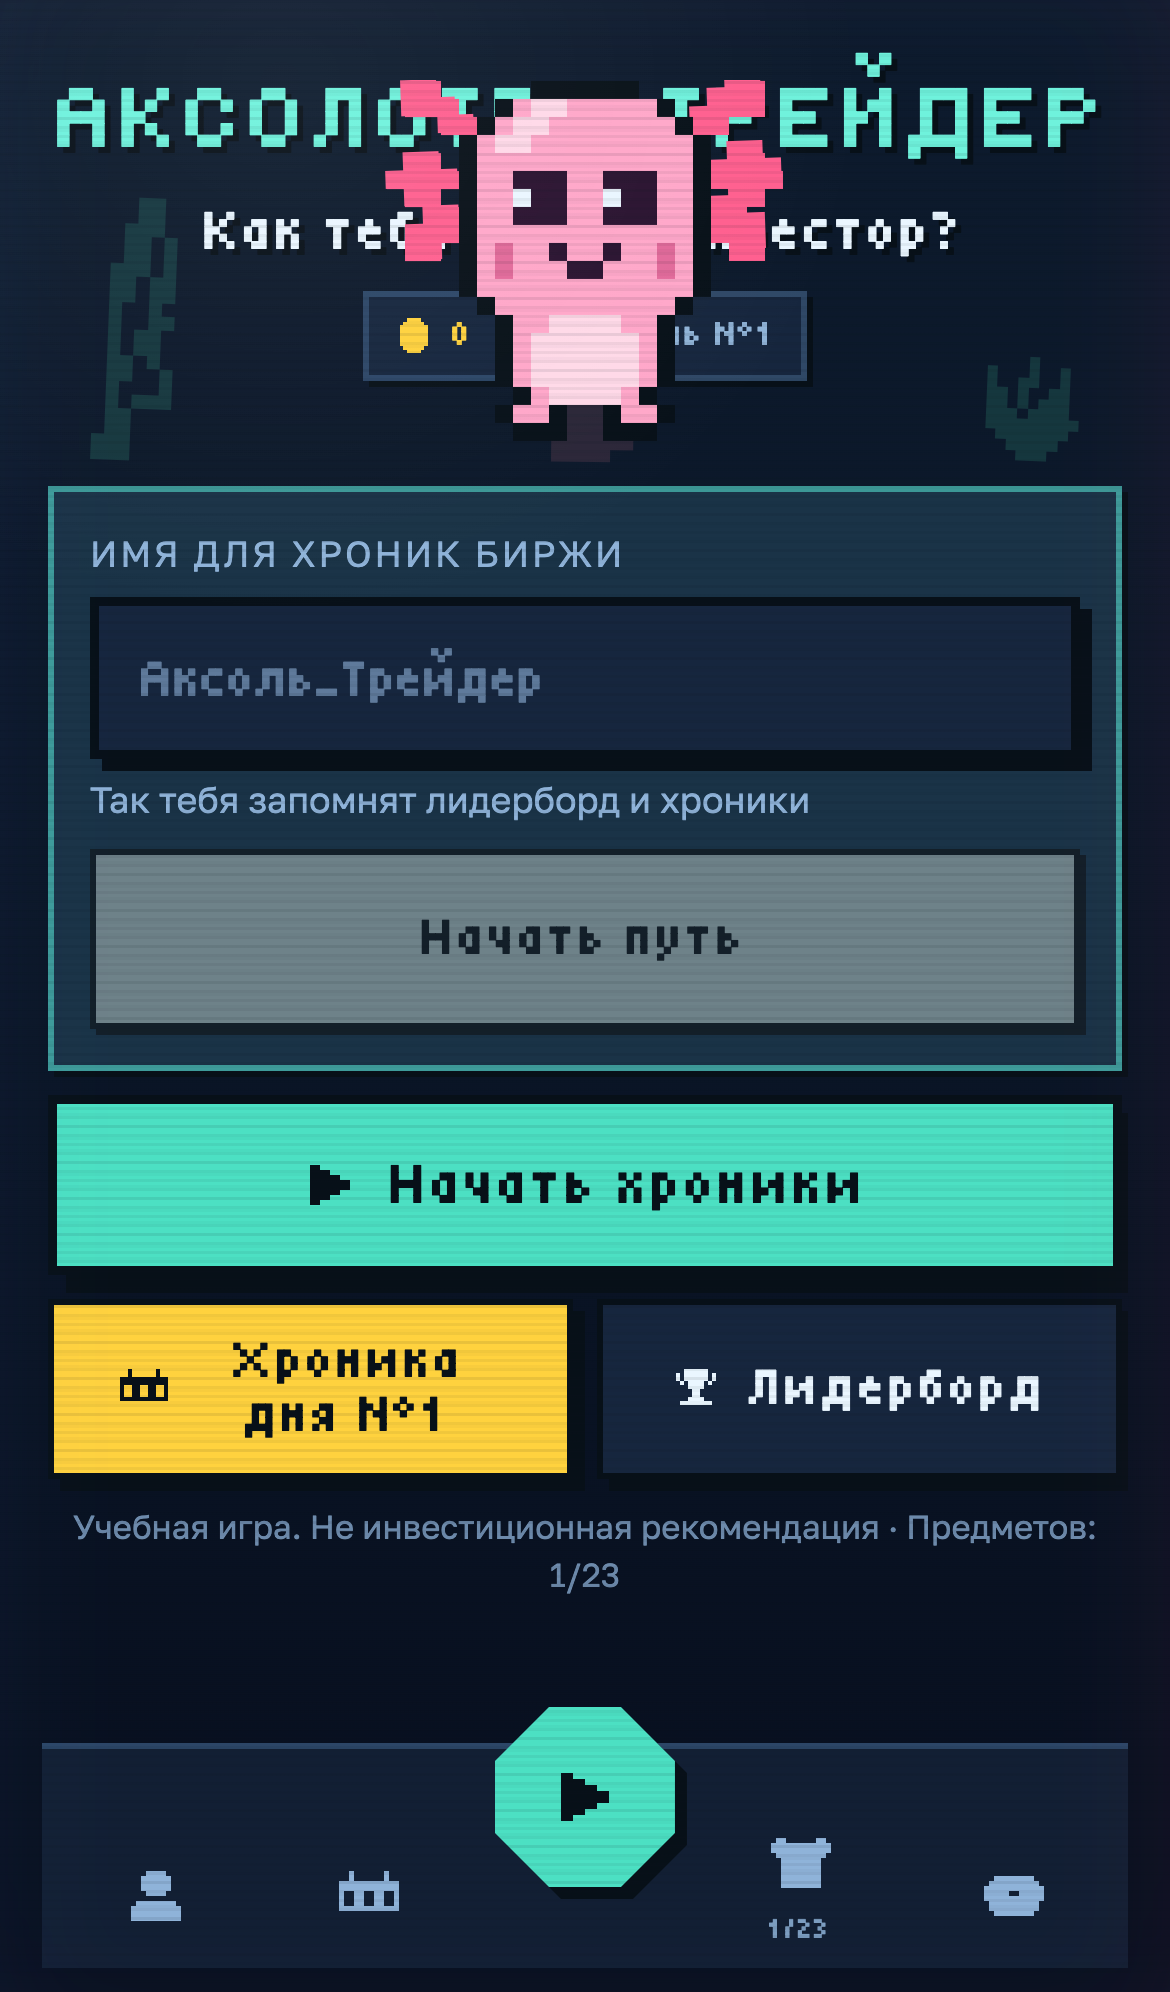
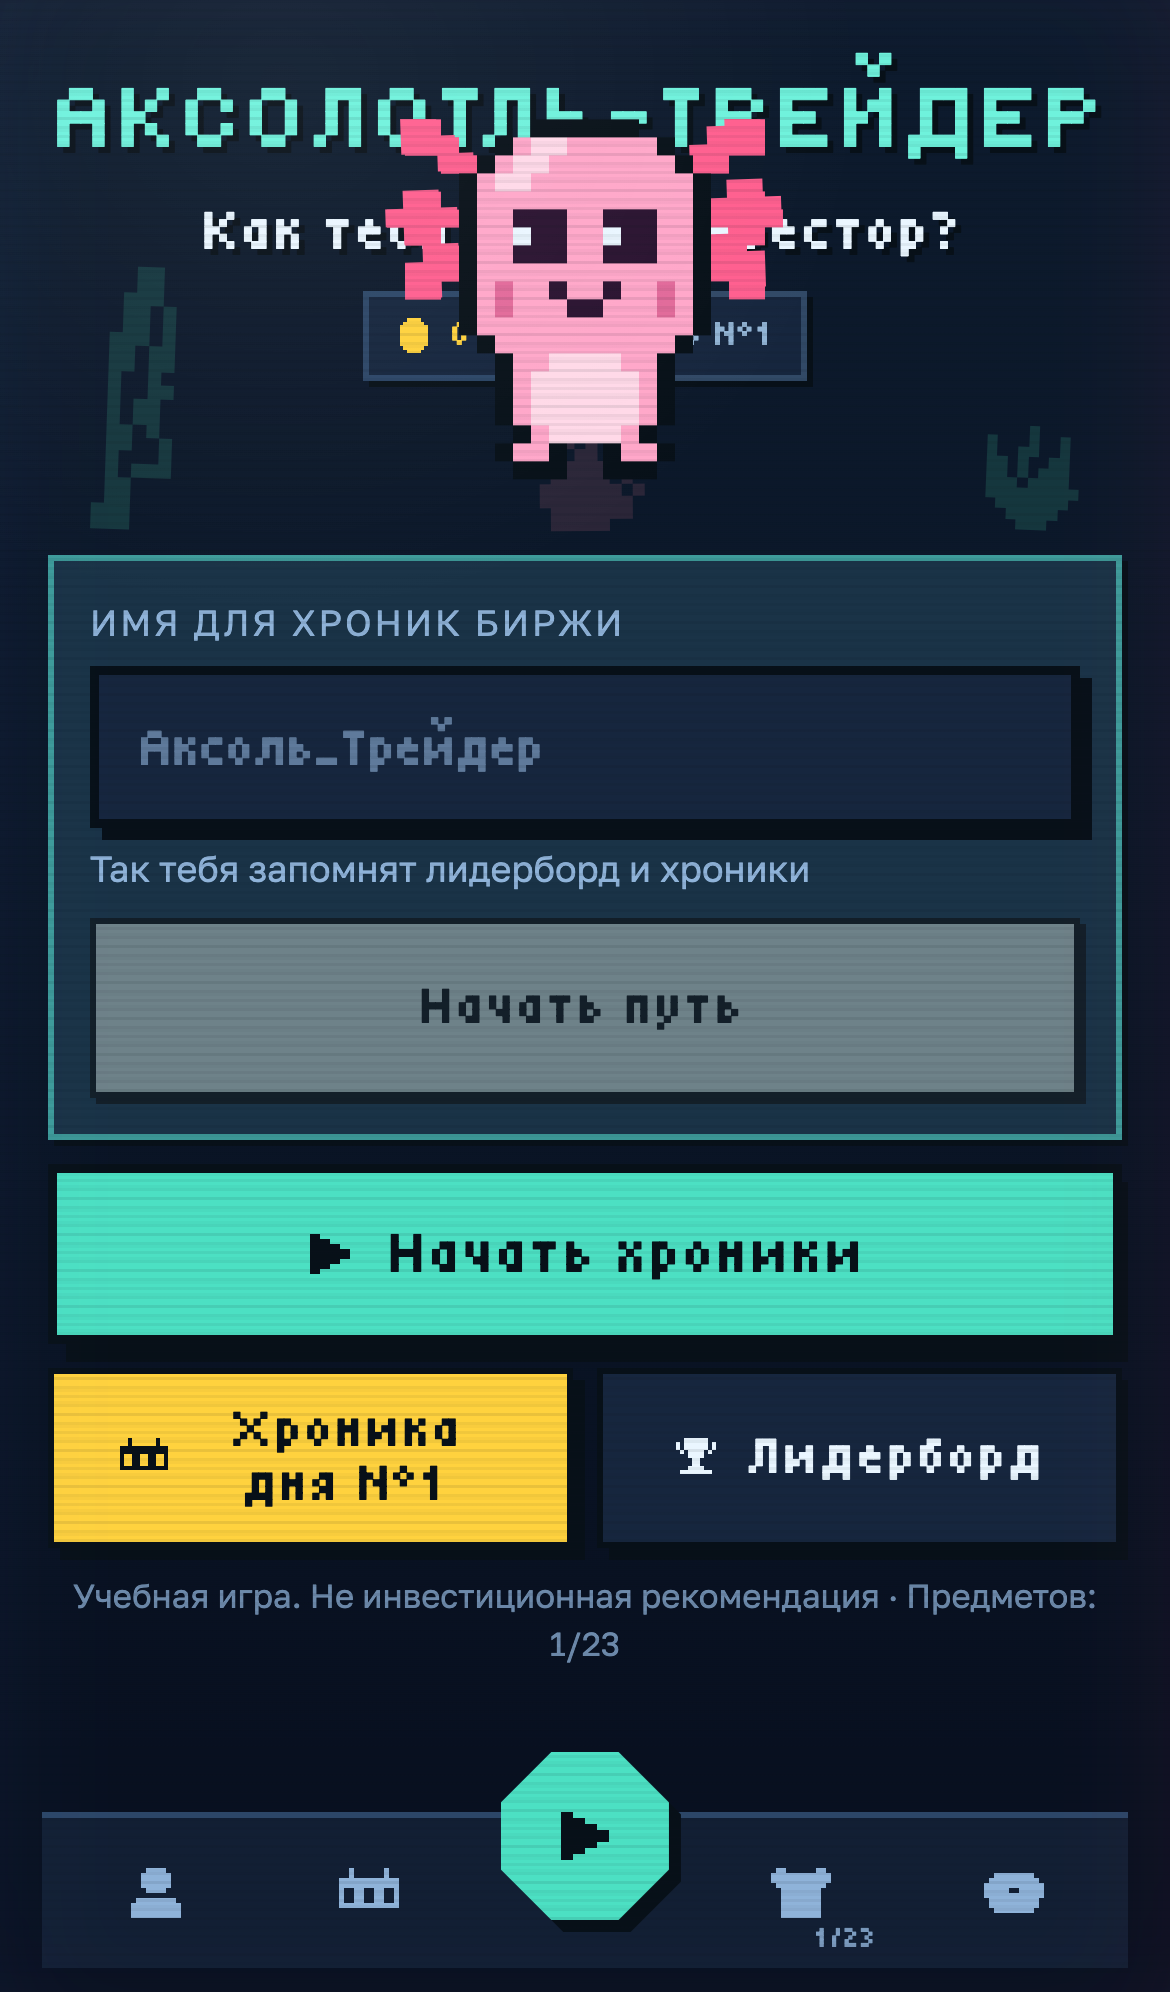
ux: выравнивание таб-бара — все иконки на одной центральной линии, счётчик коллекции бейджем, ▶ вылетает над баром без растяжения строки

diff --git a/client/src/screens/hub.css b/client/src/screens/hub.css
@@ -458,9 +458,10 @@
   display: grid;
   grid-template-columns: repeat(5, 1fr);
   gap: 4px;
-  align-items: end;
+  align-items: stretch;
+  height: 52px;
   margin-top: 6px;
-  padding: 6px 4px 3px;
+  padding: 2px 4px;
   border-top: 2px solid var(--line);
   background: color-mix(in srgb, var(--panel) 68%, var(--bg-deep));
 }
@@ -468,19 +469,20 @@
 .hub-tab {
   display: flex;
   justify-content: center;
-  align-items: end;
+  align-items: center;
   min-width: 0;
 }
 
 .hub-tab button {
+  position: relative;
   display: flex;
   flex-direction: column;
   align-items: center;
   justify-content: center;
   gap: 2px;
   width: 100%;
-  min-height: 42px;
-  padding: 3px 2px;
+  height: 100%;
+  padding: 2px;
   color: var(--ink-dim);
   cursor: pointer;
 }
@@ -502,11 +504,15 @@
 }
 
 .hub-tab__meta {
+  position: absolute;
+  right: 8px;
+  bottom: 1px;
   font-family: var(--font-display);
   font-weight: 400;
   font-size: 10px;
   letter-spacing: 0.04em;
   opacity: 0.85;
+  pointer-events: none;
 }
 
 .hub-tab button:active {
@@ -524,21 +530,21 @@
   box-shadow: var(--shadow-1);
 }
 
-/* центральная ▶: приподнятая «пиксель-круглая» кнопка 68px.
-   Лифт — через transform: контейнер не сжимается, кнопка честно
-   вылезает над верхней кромкой бара */
+/* центральная ▶: абсолютная посадка — вылетает вверх над линией,
+   НО не растягивает строку: соседние иконки идут ровно по центру */
 .hub-tab--play {
-  align-self: end;
+  position: relative;
 }
 
 .hub-tab--play .hub-play {
-  position: relative;
-  width: 68px;
-  height: 68px;
+  position: absolute;
+  left: 50%;
+  bottom: 2px;
+  width: 64px;
+  height: 64px;
   min-height: 0;
-  margin-bottom: 4px;
   padding: 0;
-  transform: translateY(-26px);
+  transform: translate(-50%, -16px);
   cursor: pointer;
 }
 
@@ -593,9 +599,9 @@
   }
 
   .hub-tab--play .hub-play {
-    width: 60px;
-    height: 60px;
-    transform: translateY(-20px);
+    width: 56px;
+    height: 56px;
+    transform: translate(-50%, -12px);
   }
 }
 
